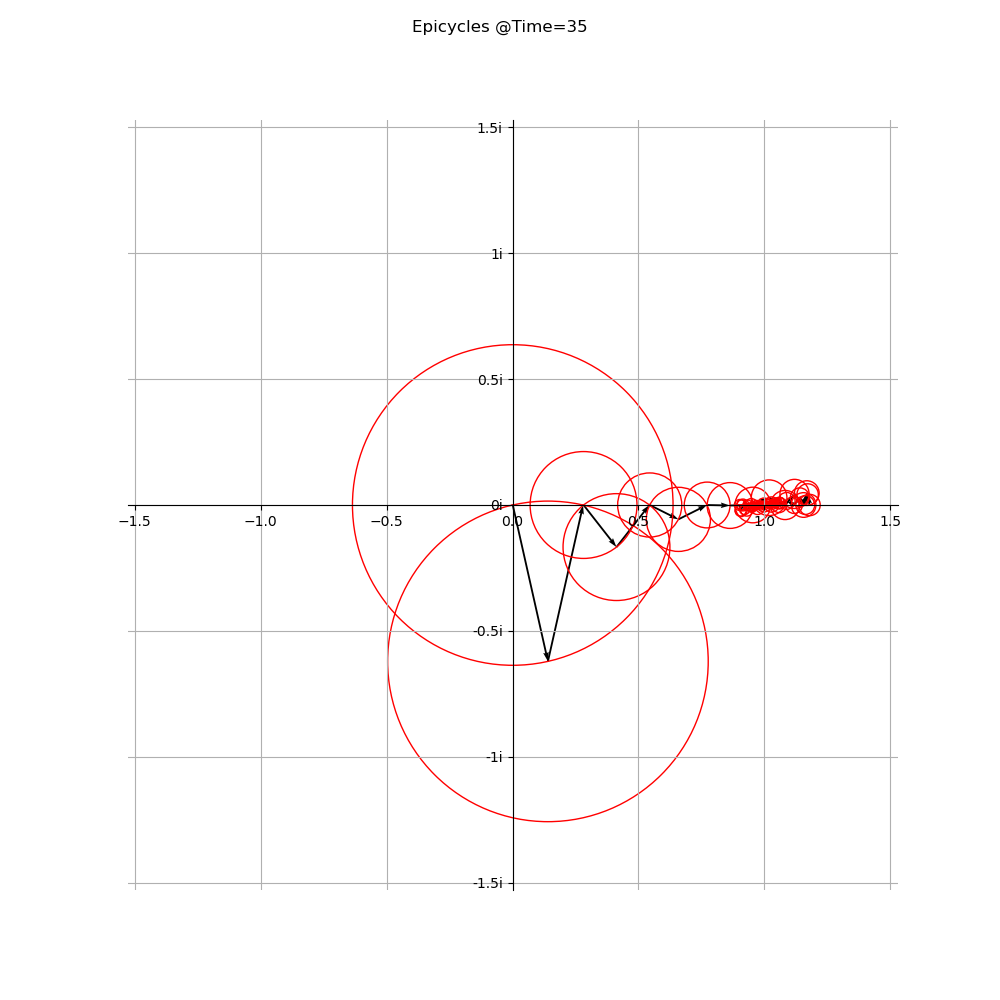
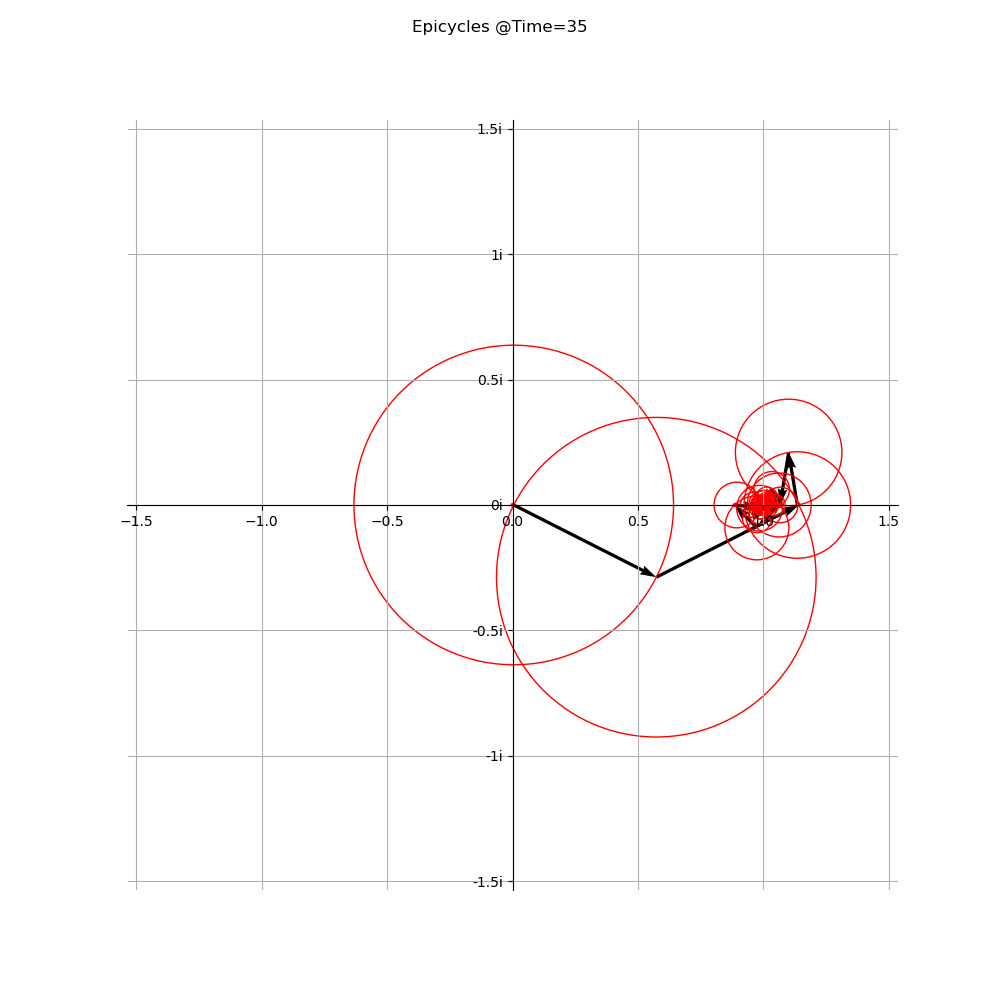
Clarify heat equation plotting by adding explicit error mode and restoring example plot calls

diff --git a/fourier_diffusion/plotting.py b/fourier_diffusion/plotting.py
@@ -340,3 +340,178 @@ def plot_heat_equation_solution(
                 ani.save(f'animations/{variable_name}.mp4', writer="ffmpeg")
 
         plt.show()
+
+
+def plot_validation_summary(
+    x_array: np.ndarray,
+    time_array: np.ndarray,
+    analytical_solution: np.ndarray,
+    numerical_solution: np.ndarray,
+    error: np.ndarray,
+    time_index: int = -1,
+    basis: str = "periodic",
+    animate: bool = False,
+    save_fig: bool = False,
+) -> None:
+    """Plot or animate a summary figure for analytical vs numerical validation."""
+
+    fig = plt.figure(figsize=(16, 10))
+
+    ax1 = fig.add_subplot(2, 2, 1)
+    ax2 = fig.add_subplot(2, 2, 2)
+    ax3 = fig.add_subplot(2, 2, 3, projection="3d")
+    ax4 = fig.add_subplot(2, 2, 4, projection="3d")
+
+    x_grid, t_grid = np.meshgrid(x_array, time_array)
+
+    surf1 = ax3.plot_surface(
+        x_grid,
+        t_grid,
+        analytical_solution,
+        cmap=cm.coolwarm,
+        alpha=0.85,
+    )
+    surf2 = ax4.plot_surface(
+        x_grid,
+        t_grid,
+        error,
+        cmap=cm.coolwarm,
+        alpha=0.85,
+    )
+
+    fig.colorbar(surf1, ax=ax3, shrink=0.7)
+    fig.colorbar(surf2, ax=ax4, shrink=0.7)
+
+    ax3.set_title(f"Analytical solution ({basis})")
+    ax3.set_xlabel("Position")
+    ax3.set_ylabel("Time")
+    ax3.set_zlabel("Temperature")
+
+    ax4.set_title("Error surface")
+    ax4.set_xlabel("Position")
+    ax4.set_ylabel("Time")
+    ax4.set_zlabel("Error")
+
+    if not animate:
+        t_value = time_array[time_index]
+
+        analytical_slice = analytical_solution[time_index]
+        numerical_slice = numerical_solution[time_index]
+        error_slice = error[time_index]
+
+        ax1.plot(x_array, analytical_slice, label="Analytical")
+        ax1.plot(x_array, numerical_slice, linestyle="--", label="Numerical")
+        ax1.set_title(f"Analytical vs Numerical")
+        ax1.set_xlabel("Position")
+        ax1.set_ylabel("Temperature")
+        ax1.legend()
+        ax1.grid(True)
+
+        ax2.plot(x_array, error_slice)
+        ax2.set_title(f"Error")
+        ax2.set_xlabel("Position")
+        ax2.set_ylabel("Error")
+        ax2.grid(True)
+
+        ax3.plot(
+            x_array,
+            np.full_like(x_array, t_value),
+            analytical_slice,
+            color="k",
+            linewidth=2,
+        )
+        ax4.plot(
+            x_array,
+            np.full_like(x_array, t_value),
+            error_slice,
+            color="k",
+            linewidth=2,
+        )
+
+        fig.suptitle(f"Validation summary ({basis}, t = {t_value:.2f})", fontsize=16)
+        fig.subplots_adjust(top=0.90)
+
+        if save_fig:
+            os.makedirs("figures", exist_ok=True)
+            fig.savefig(f"figures/validation_summary_{basis}.png")
+
+        plt.show()
+        return
+
+    analytical_line, = ax1.plot([], [], label="Analytical")
+    numerical_line, = ax1.plot([], [], linestyle="--", label="Numerical")
+    ax1.set_xlim(x_array.min(), x_array.max())
+    ax1.set_ylim(
+        min(np.min(analytical_solution), np.min(numerical_solution)),
+        max(np.max(analytical_solution), np.max(numerical_solution)),
+    )
+    ax1.set_xlabel("Position")
+    ax1.set_ylabel("Temperature")
+    ax1.legend()
+    ax1.grid(True)
+
+    error_line, = ax2.plot([], [])
+    ax2.set_xlim(x_array.min(), x_array.max())
+    ax2.set_ylim(np.min(error), np.max(error))
+    ax2.set_xlabel("Position")
+    ax2.set_ylabel("Error")
+    ax2.grid(True)
+
+    analytical_surface_line, = ax3.plot(
+        x_array,
+        np.full_like(x_array, time_array[0]),
+        analytical_solution[0],
+        color="k",
+        linewidth=2,
+    )
+    error_surface_line, = ax4.plot(
+        x_array,
+        np.full_like(x_array, time_array[0]),
+        error[0],
+        color="k",
+        linewidth=2,
+    )
+
+    def update(frame: int):
+        t_value = time_array[frame]
+
+        analytical_slice = analytical_solution[frame]
+        numerical_slice = numerical_solution[frame]
+        error_slice = error[frame]
+
+        analytical_line.set_data(x_array, analytical_slice)
+        numerical_line.set_data(x_array, numerical_slice)
+        error_line.set_data(x_array, error_slice)
+
+        ax1.set_title(f"Analytical vs Numerical")
+        ax2.set_title(f"Error")
+
+        analytical_surface_line.set_data(x_array, np.full_like(x_array, t_value))
+        analytical_surface_line.set_3d_properties(analytical_slice)
+
+        error_surface_line.set_data(x_array, np.full_like(x_array, t_value))
+        error_surface_line.set_3d_properties(error_slice)
+
+        fig.suptitle(f"Validation summary ({basis}, t = {t_value:.2f})", fontsize=16)
+
+        return (
+            analytical_line,
+            numerical_line,
+            error_line,
+            analytical_surface_line,
+            error_surface_line,
+        )
+
+    ani = FuncAnimation(
+        fig,
+        update,
+        frames=len(time_array),
+        interval=100,
+        blit=False,
+    )
+
+    if save_fig:
+        os.makedirs("animations", exist_ok=True)
+        ani.save(f"animations/validation_summary_{basis}.mp4", writer="ffmpeg")
+
+    plt.show()

diff --git a/run_example.py b/run_example.py
@@ -13,6 +13,7 @@ from fourier_diffusion import (
     plot_signals,
     plot_epicycles,
     plot_heat_equation_solution,
+    plot_validation_summary,
 )
 
 
@@ -36,7 +37,7 @@ basis = "periodic"
 sample_index = 35
 partial_sums_index = -1
 
-save_fig = True
+save_fig = False
 
 x_array = np.linspace(x_min, x_max, num_x, endpoint=False)
 
@@ -102,12 +103,19 @@ error = compute_error(heat_equation_solution, numerical_solution)
 max_abs_error, rms_error = compute_error_metrics(error)
 
 print(f"Max absolute error: {max_abs_error:.6e}")
+
 print(f"RMS error: {rms_error:.6e}")
 
 plot_signals(x_array, signal_values, basis=basis, save_fig=save_fig)
-plot_epicycles(series_terms, sample_index=sample_index, save_fig=save_fig)
-plot_epicycles(series_terms, animate=True, save_fig=save_fig)
+
+if basis == "periodic":
+    plot_epicycles(series_terms, sample_index=sample_index, save_fig=save_fig)
+    plot_epicycles(series_terms, animate=True, save_fig=save_fig)
+else:
+    print(f"[INFO] Epicycle plot skipped for basis='{basis}' (requires 'periodic').")
+
 plot_signals(x_array, signal_values, partial_sums, basis=basis, save_fig=save_fig)
+
 plot_signals(
     x_array, 
     signal_values, 
@@ -140,5 +148,17 @@ plot_heat_equation_solution(
     basis=basis,
     error=True,
     animate=True,
+    save_fig=save_fig,
+)
+
+plot_validation_summary(
+    x_array,
+    time_array,
+    heat_equation_solution,
+    numerical_solution,
+    error,
+    time_index=-1,
+    basis=basis,
+    animate=False,
     save_fig=save_fig,
 )

diff --git a/fourier_diffusion/__init__.py b/fourier_diffusion/__init__.py
@@ -12,4 +12,5 @@ from .plotting import (
     plot_signals,
     plot_epicycles,
     plot_heat_equation_solution,
+    plot_validation_summary,
 )